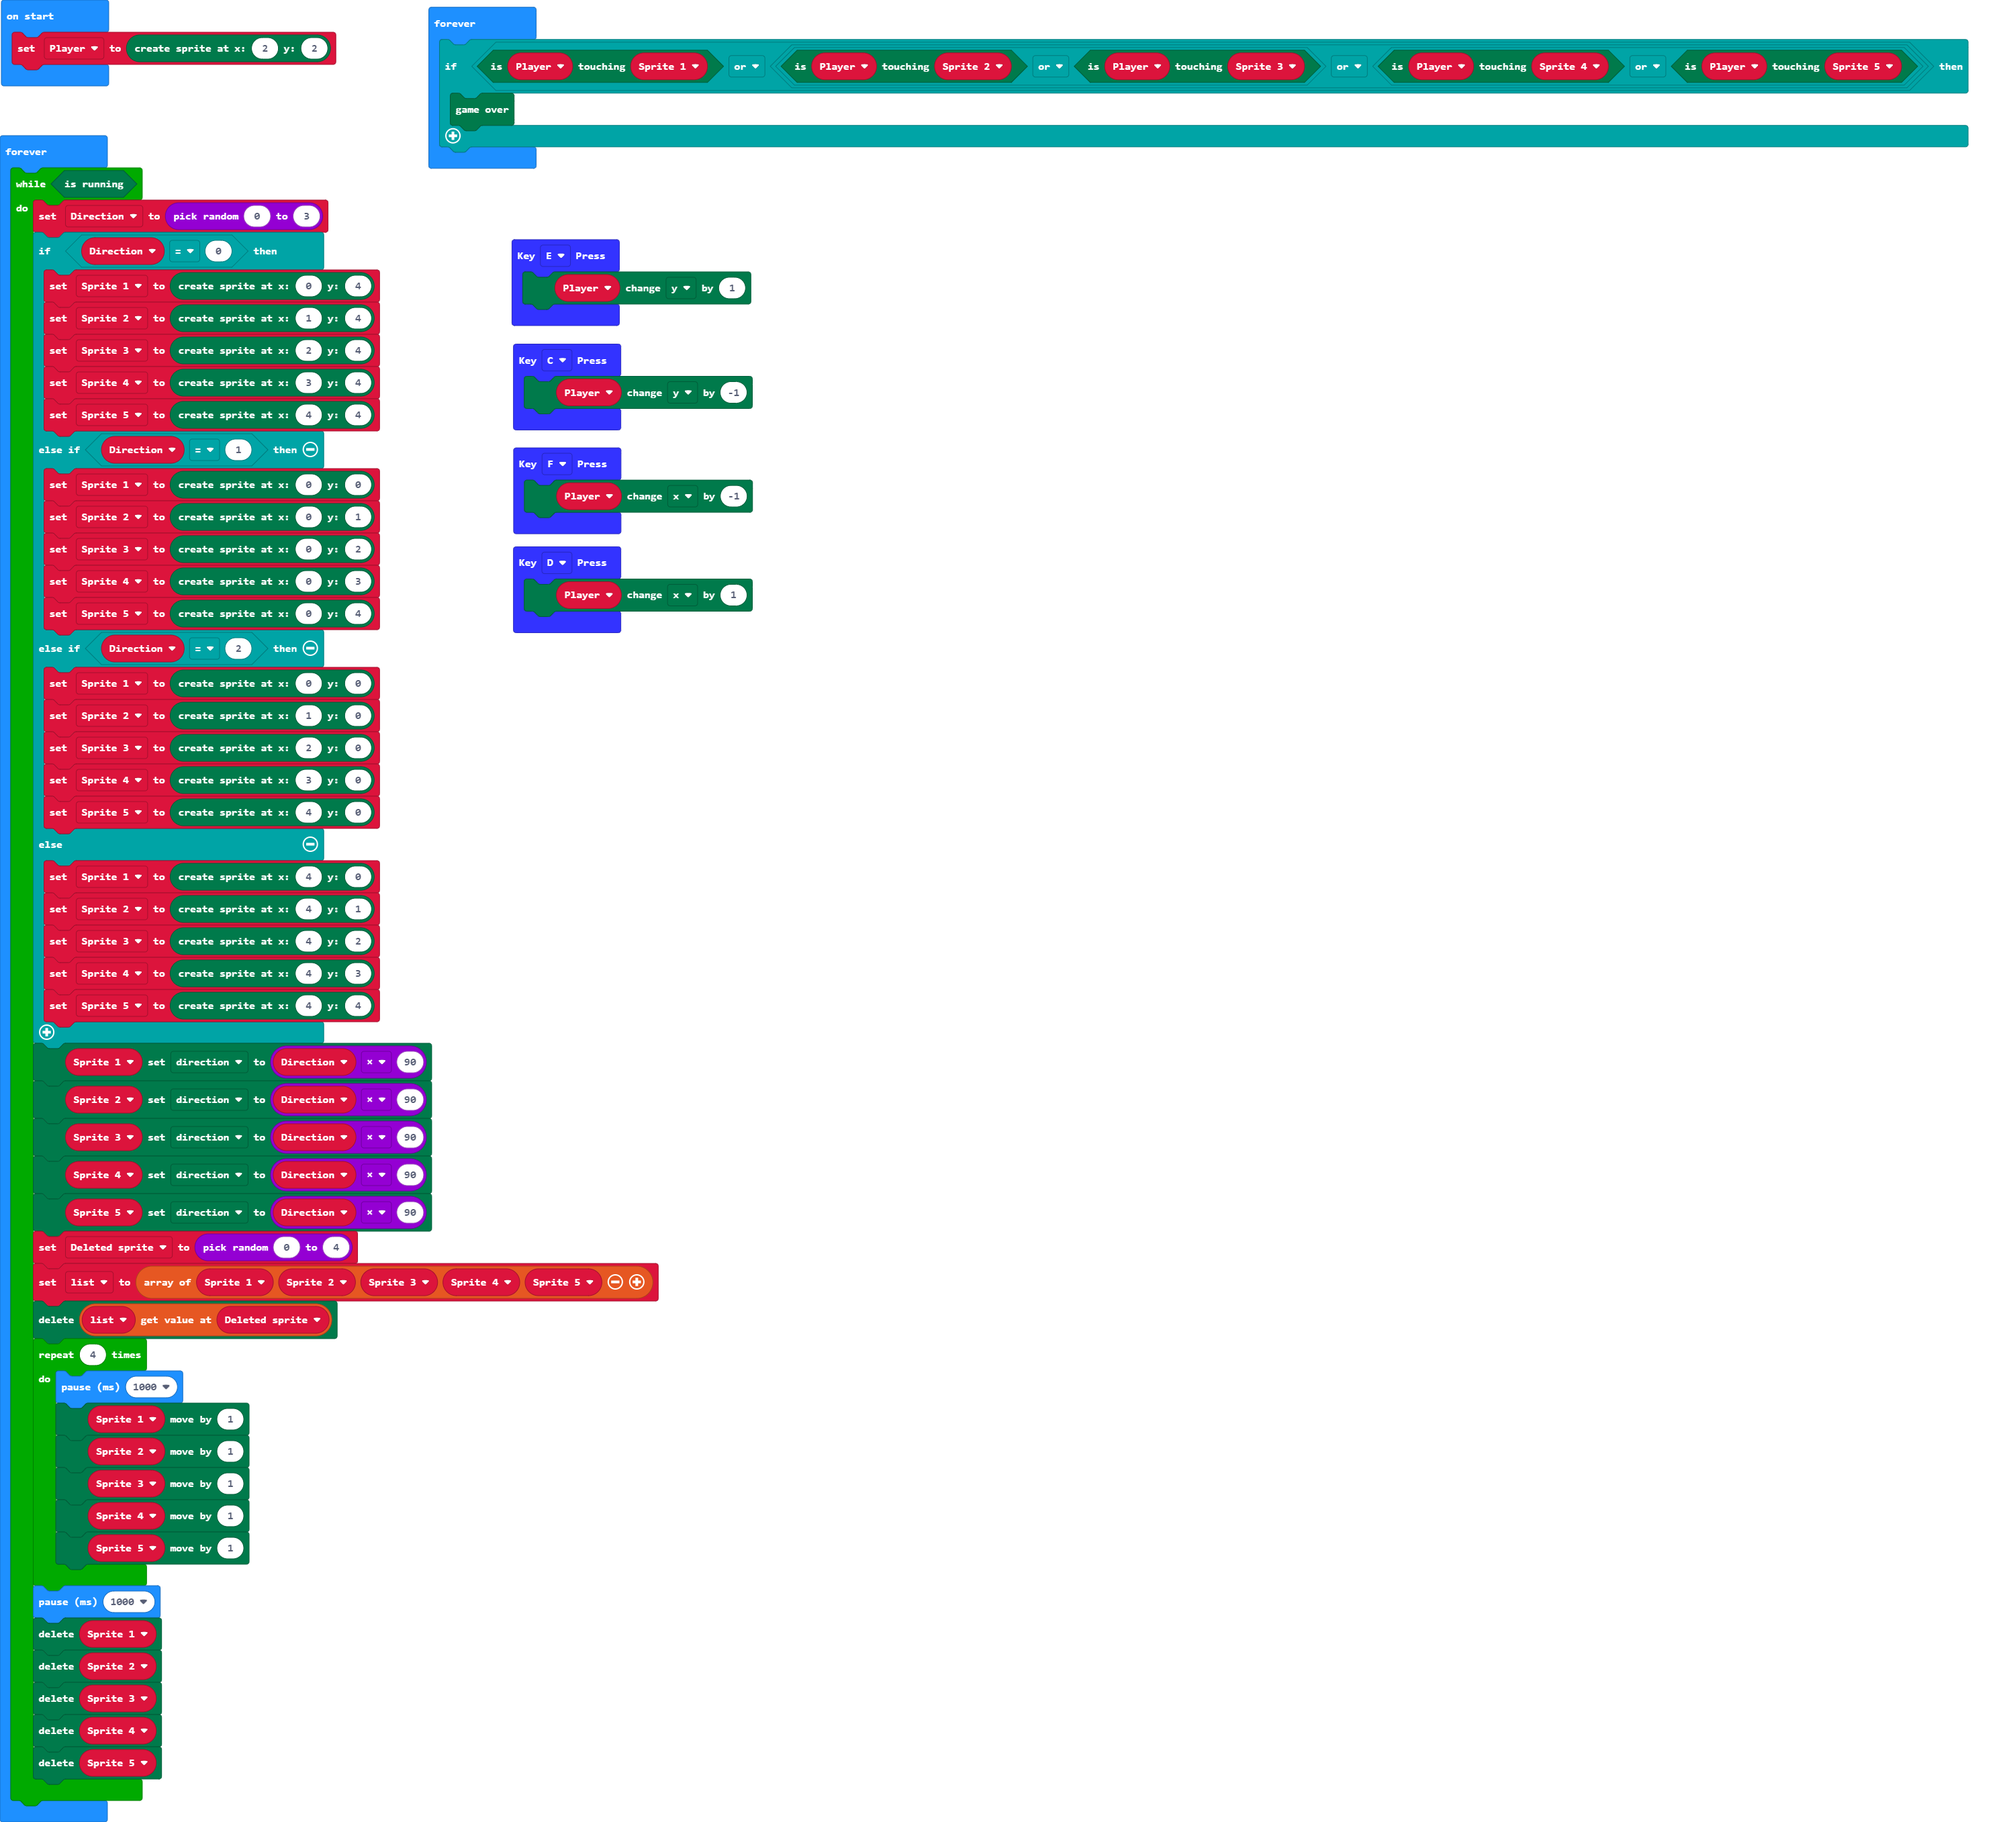
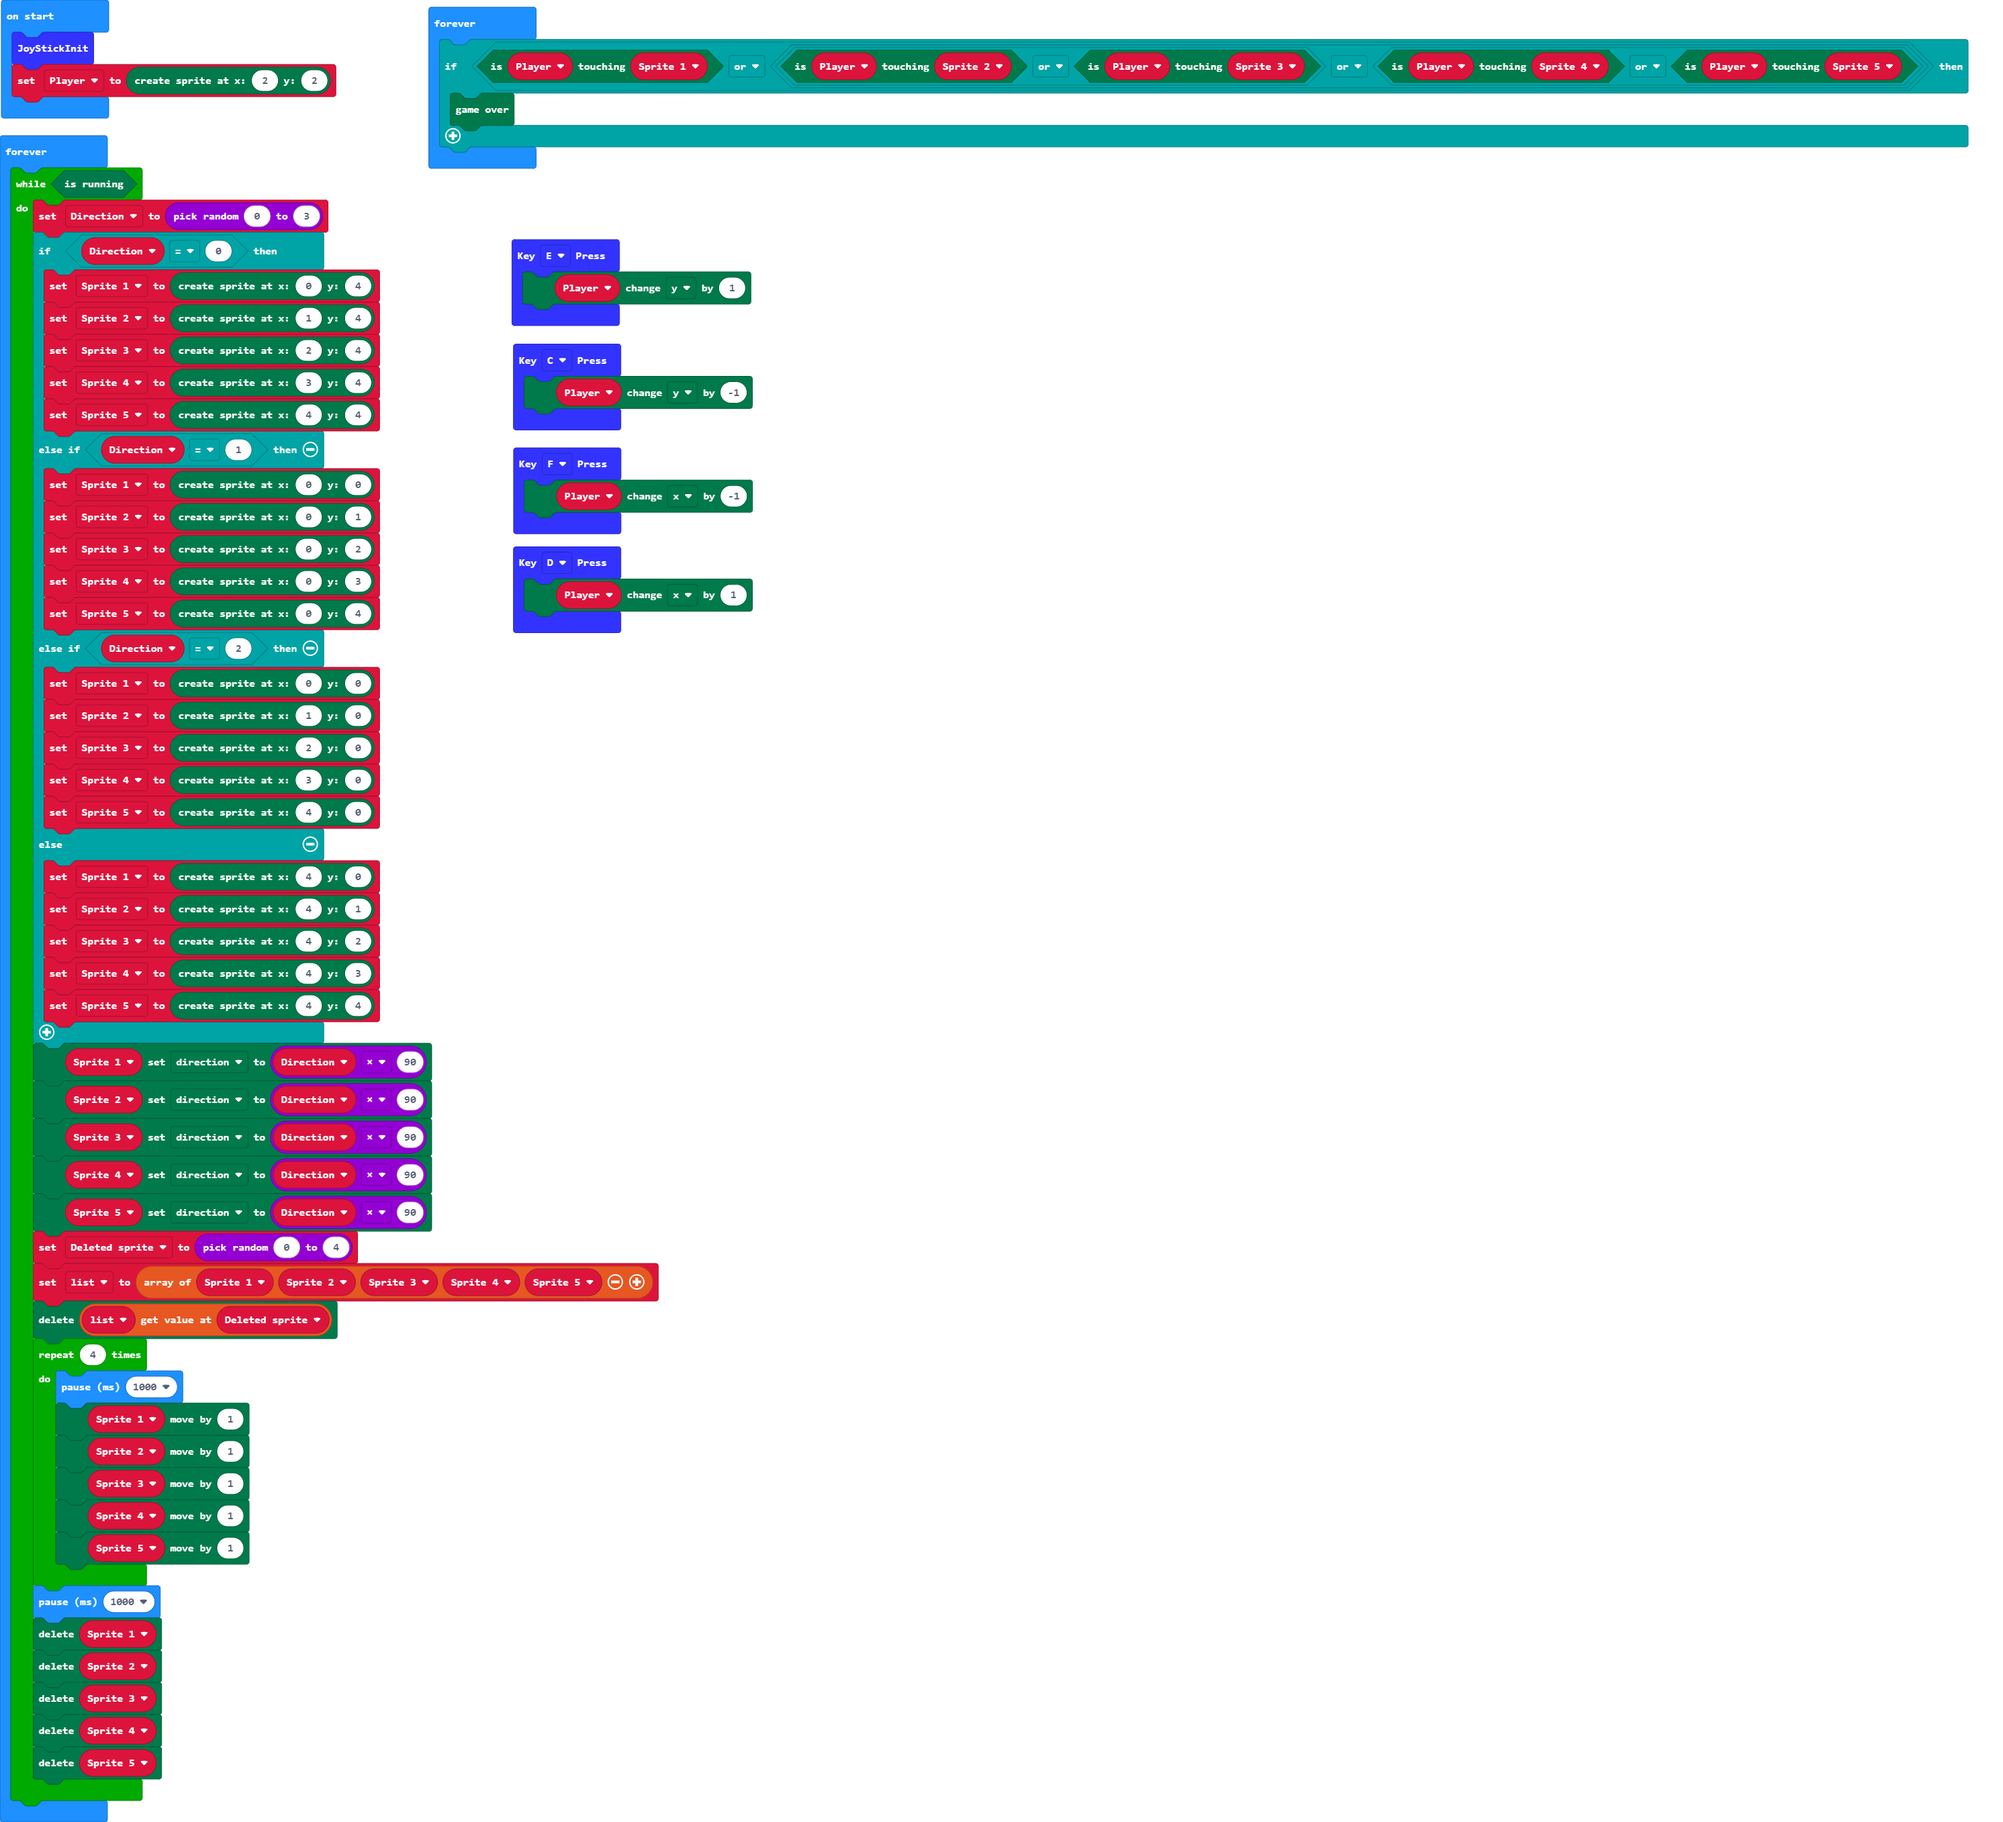
init
(cherry picked from commit c412735463f2b0a6a6532867d12b2ddcd342a30e)

Changed region(s): [[0.0, 0.0, 0.1871, 0.0929]]

diff --git a/main.ts b/main.ts
@@ -19,6 +19,7 @@ let Sprite_3: game.LedSprite = null
 let Sprite_2: game.LedSprite = null
 let Sprite_1: game.LedSprite = null
 let Player: game.LedSprite = null
+WSJoyStick.JoyStickInit()
 Player = game.createSprite(2, 2)
 basic.forever(function () {
     if (Player.isTouching(Sprite_1) || (Player.isTouching(Sprite_2) || Player.isTouching(Sprite_3) || (Player.isTouching(Sprite_4) || Player.isTouching(Sprite_5)))) {
